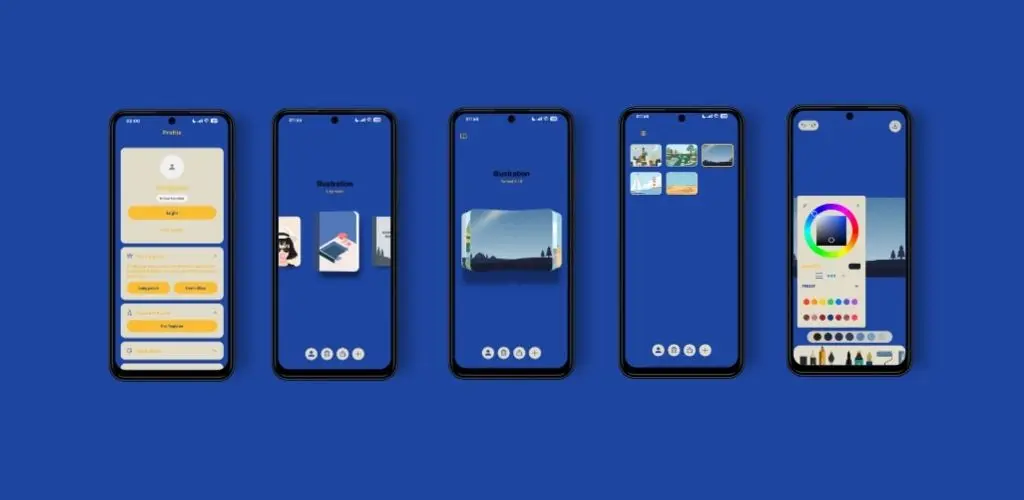
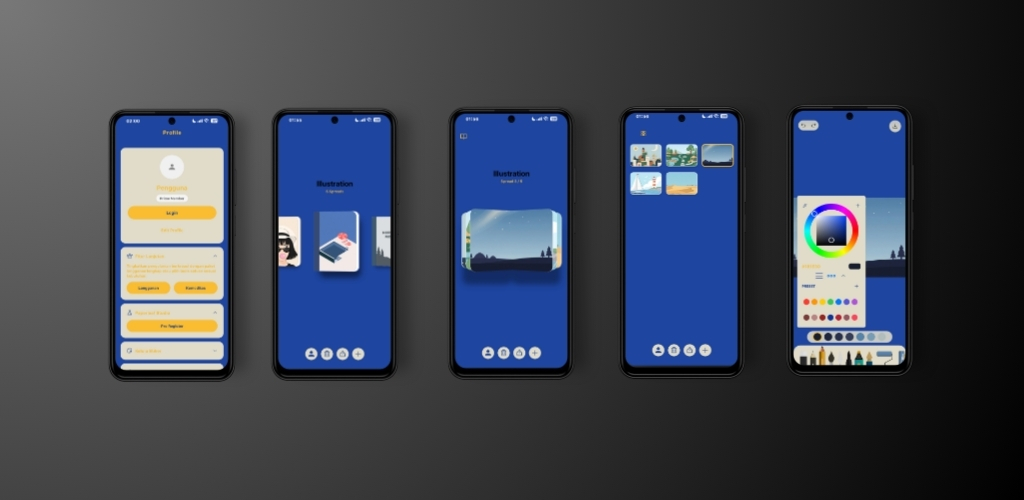
new update 4

diff --git a/css/styles.css b/css/styles.css
@@ -273,11 +273,15 @@ input {
   gap: 8px;
   flex: 1;
   justify-content: center;
+  /* Ensure children (dropdowns) are not clipped */
+  overflow: visible;
 }
 
 .nav-item {
   position: relative;
   padding: 10px 0;
+  display: flex;
+  align-items: center;
 }
 
 .nav-link {
@@ -485,16 +489,19 @@ input {
 .hero-header {
   position: relative;
   width: 100%;
-  height: 80vh;
-  min-height: 500px;
-  max-height: 800px;
+  height: 90vh;
+  min-height: 600px;
   background-image: url('../assets/images/header.webp');
   background-size: cover;
   background-position: center;
   background-repeat: no-repeat;
   display: flex;
-  align-items: flex-end;
-  overflow: hidden;
+  align-items: flex-end; /* Align content to the bottom */
+  justify-content: center; /* Center content horizontally */
+  overflow: visible;
+  /* Improve image clarity */
+  image-rendering: -webkit-optimize-contrast;
+  image-rendering: crisp-edges;
 }
 
 .hero-header-overlay {
@@ -506,8 +513,9 @@ input {
   background: linear-gradient(
     to bottom,
     rgba(9, 9, 9, 0) 0%,
-    rgba(9, 9, 9, 0.4) 50%,
-    rgba(9, 9, 9, 0.9) 100%
+    rgba(9, 9, 9, 0.2) 40%,
+    rgba(9, 9, 9, 0.6) 70%,
+    rgba(9, 9, 9, 1) 100%
   );
   z-index: 1;
 }
@@ -515,38 +523,50 @@ input {
 .hero-header-content {
   position: relative;
   z-index: 2;
-  padding-bottom: 80px;
-  text-align: left;
+  text-align: center;
+  max-width: 1000px;
+  padding: 0 24px 80px; /* Padding bottom to lift it slightly from the edge */
 }
 
 .hero-header-content .label {
   color: #FFFFFF;
   opacity: 0.9;
-  margin-bottom: 20px;
+  margin-bottom: 24px;
   display: block;
+  font-size: 0.875rem;
+  letter-spacing: 0.25em; /* Spaced out like reference */
+  font-weight: 700;
+  text-transform: uppercase;
 }
 
 .hero-header-content .heading-xl {
   margin-bottom: 24px;
-  max-width: 800px;
+  font-size: clamp(3.5rem, 10vw, 6rem); /* Larger typography */
+  line-height: 1;
+  letter-spacing: -0.04em;
+  white-space: nowrap; /* Keep it on one line as requested */
 }
 
 .hero-header-content .body-lg {
-  max-width: 650px;
-  color: rgba(255, 255, 255, 0.8);
+  max-width: 750px;
+  margin: 0 auto;
+  color: rgba(255, 255, 255, 0.85);
+  font-size: 1.25rem;
+  line-height: 1.6;
+}
+
+@media (max-width: 1024px) {
+  .hero-header-content .heading-xl {
+    white-space: normal; /* Allow wrap on smaller screens to avoid overflow */
+  }
 }
 
 @media (max-width: 768px) {
   .hero-header {
-    height: 60vh;
-    align-items: center;
+    height: 70vh;
   }
   .hero-header-content {
-    padding-bottom: 40px;
-    text-align: center;
-  }
-  .hero-header-content .body-lg {
-    margin: 0 auto;
+    padding-bottom: 0;
   }
 }
 

diff --git a/index.html b/index.html
@@ -109,7 +109,7 @@
       <div class="hero-header-overlay"></div>
       <div class="container hero-header-content fade-in visible">
         <span class="label">Welcome to Paperleaf Website</span>
-        <h1 class="heading-xl">Your digital android scrapbook</h1>
+        <h1 class="heading-xl">Your Digital Scrapbook</h1>
         <p class="body-lg">
           Reimagine the art of journaling. An organic, book-based digital scrapbook for Android that captures your thoughts with natural ink and timeless style.
         </p>
